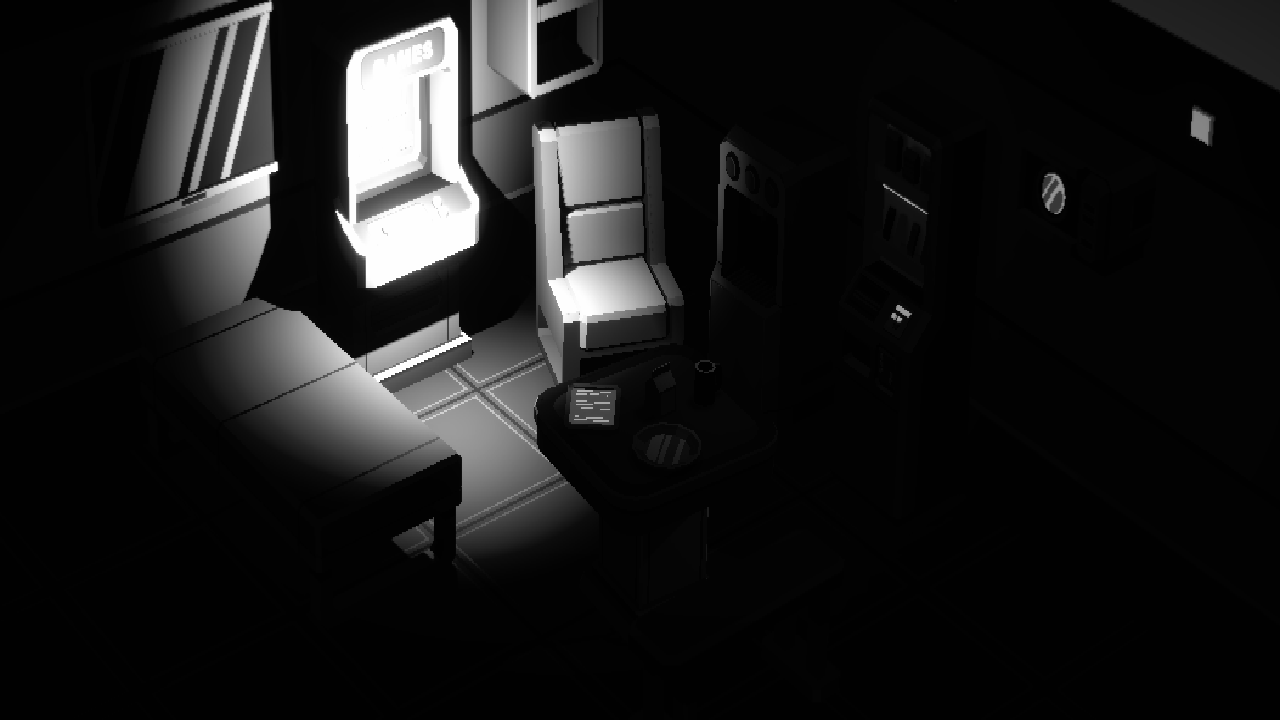
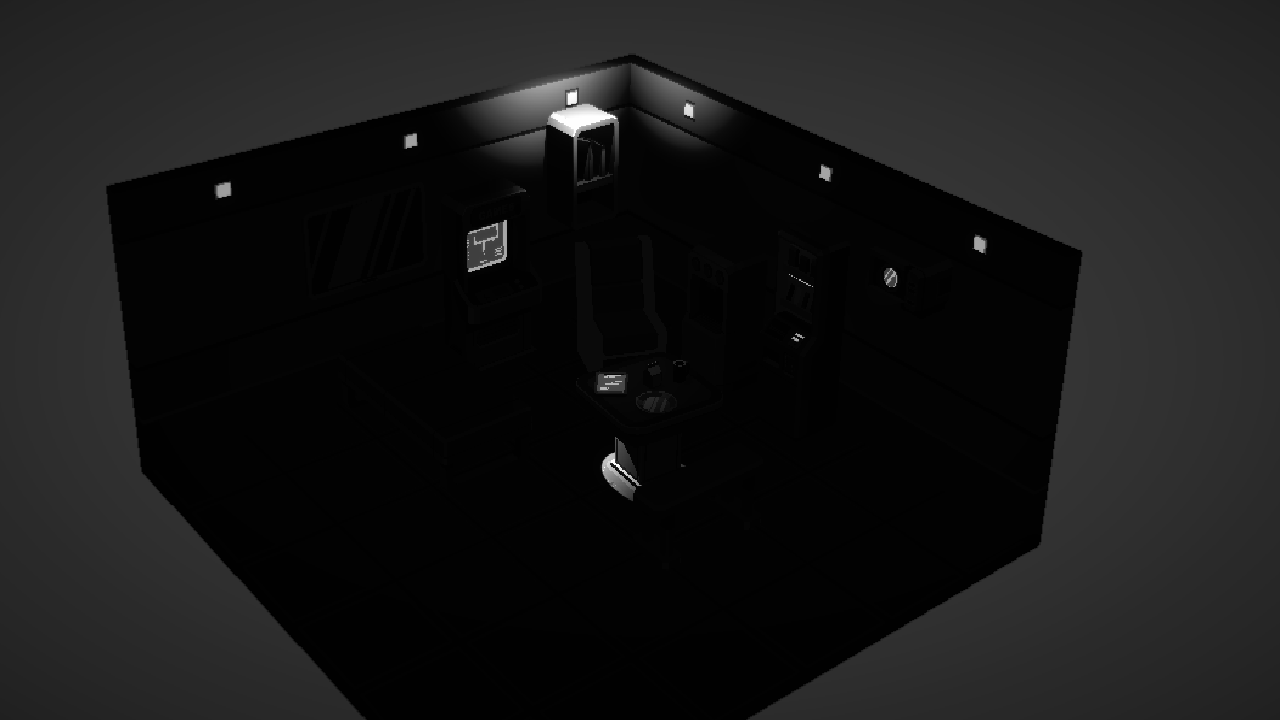
Log the full 10-case eval suite results (4/10 pass)
Ran the full suite with all this session's fixes active together
(RGB-only tinting, judge persona, LightRole field, unit-scale fix +
type-gating, real conversation history). 4/10 passed: golden_hour
7/10, cozy_cafe 6/10, festive 6/10, zen 7/10. Failed: horror 4/10,
eerie_lab 5/10, thriller 5/10, dreamlike 5/10, post_apocalyptic 4/10,
noir (best attempt 5/10).

Two findings worth carrying into next session, not just a score:
every failing Mess Hall case used the 'restrained' lighting archetype
and drew the identical judge critique (isolated bright dots, darkness
doing the work instead of a real key shaping the room) -- every
passing case used 'expansive' or 'soft_ambient'. That's a specific,
actionable gap, not a vague 'needs more tuning.' Also: this session's
self-report-vs-verified mismatch tracker caught 4 real divergences in
this one run (thriller/rotation, festive/intensity, noir x2), possibly
tied to some of the no_transform_change guardrail rejections.

Full table + reasoning in docs/mood-test-results.md, mirrored into the
vault's Status.md/Notes.md.

diff --git a/docs/mood-test-results.md b/docs/mood-test-results.md
@@ -2032,3 +2032,76 @@ bed/arcade cabinet clearly visible, real cold falloff) — this change is
 a mechanism improvement, not itself a mood-quality fix, so no dramatic
 score jump expected from it alone; the main.py docstring's description
 of the retry loop was updated to match.
+
+## 2026-11-26 (cont'd again): full 10-case eval suite, after all of this session's fixes together
+
+Before this, caught and fixed a third bug the suite itself would have
+silently eaten: the Forest scene's only light is Directional (a sun),
+and the x10 intensity conversion built for Point/Spot was applying to
+it too. Directional lights have no inverse-square falloff at all
+(parallel rays, distance-independent) and the sun already worked fine
+at its native raw value — verified live (real=2.8 alone gives a normal
+exposed outdoor scene). Gated the conversion by light type
+(`_is_falloff_light()`, Point/Spot only) before running anything,
+committed as `516e997`.
+
+**Result: 4/10 passed** (up from single-digit passes in any prior
+session's full-suite attempt, though direct comparison isn't clean —
+no earlier session has a full matching 10-case run logged).
+
+| Mood | Scene | Result | Score | Attempts |
+|---|---|---|---|---|
+| horror | Mess Hall | FAIL | 4/10 | 3 |
+| eerie_lab | Mess Hall | FAIL | 5/10 | 3 |
+| golden_hour | Forest | **PASS** | 7/10 | 1 |
+| cozy_cafe | Mess Hall | **PASS** | 6/10 | 2 |
+| thriller | Mess Hall | FAIL | 5/10 | 3 |
+| dreamlike | Forest | FAIL | 5/10 | 3 |
+| festive | Mess Hall | **PASS** | 6/10 | 3 |
+| post_apocalyptic | Mess Hall | FAIL | 4/10 | 3 |
+| zen | Forest | **PASS** | 7/10 | 2 |
+| noir | Mess Hall | FAIL | best attempt 5/10 (last attempt guardrail-rejected) | 3 |
+
+**Finding #1 — the failures aren't random, they're one pattern:**
+every single Mess Hall case that failed (horror, eerie_lab, thriller,
+post_apocalyptic, noir) used the agent's "restrained" lighting
+archetype, and every one of them drew the *same* judge critique in
+different words: lights read as isolated bright dots/props rather than
+a real key shaping the room, darkness is doing the work instead of
+deliberate light design, not enough directional shadow structure.
+Every Mess Hall case that passed (cozy_cafe, festive) used an
+"expansive"/brighter archetype; the Forest "soft_ambient" case (zen)
+also passed. This reads as the restrained archetype teaching the agent
+"low light count, near-zero ambient, modest intensity" when what dark/
+moody genres actually need is a genuinely STRONG, bright, tightly
+focused key against a dark field, not just turning everything down
+evenly. Next concrete lever to pull: push the restrained archetype's
+own instructions/reference intensities higher specifically for the key
+light, not just "fewer lights."
+
+**Finding #2 — the self-report-vs-verified mismatch tracking (built
+this session) earned its keep immediately:** caught 4 real divergences
+in this one run between what the agent claimed in `lever_accounting`
+and what the verified scene diff actually showed — thriller attempt 3
+(`MISMATCH=['rotation']`), festive attempt 2 (`MISMATCH=['intensity']`,
+two newly-created lights stayed at their `create_light()` default
+instead of the claimed intensity), noir attempt 2
+(`MISMATCH=['color', 'falloff_range', 'intensity']`) and noir attempt 3
+(`MISMATCH=['position', 'rotation']`). Worth investigating next
+session: if the agent genuinely believes it already moved/retuned a
+light when it didn't, that would also explain some of the
+`no_transform_change` guardrail rejections that show up as the FINAL,
+reported attempt for a few cases (noir specifically) even though an
+earlier attempt in the same run scored higher — the agent may think
+it's already satisfied the guardrail's requirement on a later attempt
+and stop bothering to actually move anything.
+
+**Loose end, not yet root-caused:** `tonemapping_added=True` kept
+reappearing for the Mess Hall scene across different cases in this run,
+even though the Neutral override was added and (believed) saved earlier
+this session — meaning it isn't persisting to the `.unity` file across
+scene switches/reloads. Harmless today (same default re-added each
+time, idempotent), but worth checking next session whether `save_scene()`
+is actually being called after `ensure_scene_ready()` adds it, or
+whether the Volume GameObject itself isn't surviving a scene reload for
+some other reason.
